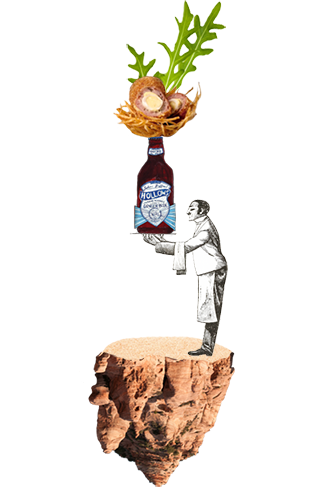
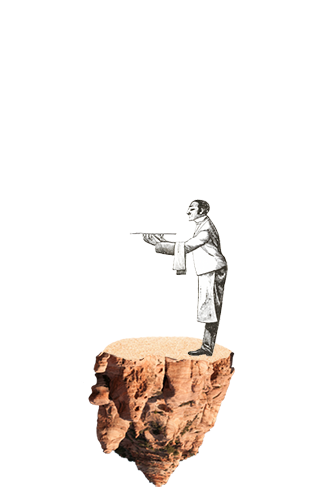
home page done

Changed region(s): [[0.3738, 0.0, 0.7188, 0.4928]]

diff --git a/app/index.html b/app/index.html
@@ -42,9 +42,20 @@
 
                         </div>
                         <div data-depth="0.40" class="mid layer">
-                            <div class="windmillGirl"><img src="images/nwtc/woman-windmills.png" width="527" height="456" /></div>
+                            <div class="windmillGirl">
+                                <img src="images/nwtc/woman_wind.png" class="wind" width="565" height="503" />
+                                <img src="images/nwtc/windmill_top.png" class="wt1" width="45" height="46">
+                                <img src="images/nwtc/windmill_top.png" class="wt2" width="45" height="46">
+                                <img src="images/nwtc/windmill_top.png" class="wt3" width="45" height="46">
+                                <img src="images/nwtc/windmill_top.png" class="wt4" width="45" height="46">
+                                <img src="images/nwtc/windmill_top.png" class="wt5" width="45" height="46">
+                                <img src="images/nwtc/woman-windmills.png" width="527" height="456" />
+                            </div>
                             <div class="island" >
-                                <div class="elephant"><img src="images/nwtc/elephant.png" width="316" height="199" /></div>
+                                <div class="elephant">
+                                    <img src="images/nwtc/elephantHead.png" class="eHead" width="316" height="199" />
+                                    <img src="images/nwtc/elephantBody.png" class="eBody" width="316" height="199" />
+                                </div>
                                 <div class="diverAnim">
                                     <div class="diverMask">
                                         <div class="diver">
@@ -58,8 +69,10 @@
                                     </div>
                                 </div>
                             </div>
-                            <div class="bottleMan"><img src="images/nwtc/waiter.png" width="313" height="487" />
-                        </div>
+                            <div class="bottleMan">
+                                <img src="images/nwtc/waiterBottle.png" class="wBottle" width="313" height="487" />
+                                <img src="images/nwtc/waiter.png" width="313" height="487" />
+                            </div>
                         <div data-depth="1.00" class="layer fore">
                             <div class="mushroom"><img src="images/nwtc/mushroom-island.png" width="168" height="173" /></div>
                             <div class="pinkCloud" ><img src="images/nwtc/cloudPnk.png" width="523" height="198" /></div>
@@ -68,7 +81,11 @@
                         </div>
 
                     </div>
-                    <div class="hitareas"><div class="bottleHit"></div> </div>
+                    <div class="hitareas">
+                        <div class="bottleHit"></div> 
+                        <div class="windHit"></div> 
+                        <div class="waiterHit"></div> 
+                    </div>
                     <div class="trumpet"><img src="images/nwtc/trumpet.png" width="358" height="125" /></div>
                 </div>
             </div>
@@ -98,11 +115,9 @@
             <script src="bower_components/tweenMax/src/minified/TweenMax.min.js"></script>
             <script src="bower_components/history.js/scripts/bundled-uncompressed/html4+html5/jquery.history.js"></script>
             <script src="scripts/imagesloaded.js"></script>
-            <script src="scripts/main.js"></script>
-<<<<<<< HEAD
+            <script src="scripts/index.js"></script>
             <script src="scripts/botanist.js"></script>
-=======
->>>>>>> b957752dc4d30f1dc7dab2a6eae0c7218c57f77f
+            <script src="scripts/main.js"></script>
             <!-- endbuild -->
         </body>
         </html>

diff --git a/app/scripts/index.js b/app/scripts/index.js
@@ -1,0 +1,57 @@
+var index = (function () {
+    'use strict';
+
+    function init () {
+        diver();
+        bottleFall();
+        ele();
+        windGirl();
+        waiterFall()
+    }
+
+    function diver(){
+        var dtl = new TimelineLite();
+        dtl.to($('.diver'), 0.2, {top:'0px' , ease: Power2.easeOut});
+        dtl.to($('.rainMask'), 0.7, {height: '300px' , ease:Quad.easeIn})
+    }
+
+    function ele(){
+        var etl = new TimelineMax({repeat:10, repeatDelay:5});
+        etl.add(TweenLite.to($('.eHead'), 3, {rotation:'20' ,ease:Quad.easeInOut}));
+        etl.add(TweenLite.to($('.eHead'), 3, {rotation:'0' ,ease:Quad.easeInOut}));
+    }
+
+    function bottleFall(){
+        $('.bottleHit').mouseover(function(){
+            var btl = new TimelineLite();
+            btl.to($('.bottleFall'), 0.1, {rotation:-180, transformOrigin: "middle left" , ease: Quad.easeOut});
+            btl.to($('.bottleFall'), 1.5, {top: '1000px' , ease:Quad.easeOut}, "-=1.2")
+        });
+    }
+
+    function windGirl(){
+        $('.windHit').mouseover(function(){
+            var wtl = new TimelineMax();
+            wtl.to($('.wind'), 1, { css: { opacity: 1, left: -10, top: -27 }, ease: Quad.easeInOut});
+            wtl.to($('.wt1'),4, {css: {rotation: '1800'}, ease: Quad.easeInOut}, "-=0.7")
+            wtl.to($('.wt2'),4, {css: {rotation: '1800'}, ease: Quad.easeInOut}, "-=3.5")
+            wtl.to($('.wt3'),4, {css: {rotation: '1800'}, ease: Quad.easeInOut}, "-=3.5")
+            wtl.to($('.wt4'),4, {css: {rotation: '1800'}, ease: Quad.easeInOut}, "-=3.5")
+            wtl.to($('.wt5'),4, {css: {rotation: '1800'}, ease: Quad.easeInOut}, "-=3.5")
+        });
+    }
+
+    function waiterFall(){
+        $('.waiterHit').mouseover(function(){
+            var wftl = new TimelineLite();
+            wftl.to($('.wBottle'), 2, {rotation:-360 , transformOrigin: "middle left", ease: Quad.easeInOut});
+            wftl.to($('.wBottle'), 1.5, {top:1000 , ease: Quad.easeInOut}, '-=1.2');
+            //TweenLite.to($('.wBottle'), 3, {top: 1000px, rotation: -90} , ease:Quad.easeOut}, "-=0.7")
+        });
+    }
+
+
+    return {
+        init: init
+    }
+}());

diff --git a/app/scripts/main.js b/app/scripts/main.js
@@ -35,11 +35,14 @@ var changePage = (function changePage() {
             $('.page').first().addClass('offPage');
             $('.page').last().removeClass('hidden');
             $('body').addClass(page);
+
             setTimeout( function() {
                 $('body').data('current', page).removeClass(currentPage);
                 $('.page').first().remove();
                 isLoading = false;
-               Anim(page);
+                console.log(page);
+                var tmp = window[page];
+                tmp.init();
                parallax = new Parallax(scene, paraOpt);
             }, 2100 );
         });
@@ -50,21 +53,6 @@ var changePage = (function changePage() {
     };
 }());
 
-// page anim
-
-var Anim = (function Anim(page){
-    if (page = 'index'){
-            var dtl = new TimelineLite();
-            dtl.to($('.diver'), 0.2, {top:'0px' , ease: Power2.easeOut});
-            dtl.to($('.rainMask'), 0.7, {height: '300px' , ease:Quad.easeIn})
-        $('.bottleHit').mouseover(function(){
-            var btl = new TimelineLite();
-            btl.to($('.bottleFall'), 0.2, {rotation:'-180' , ease: Quad.easeIn});
-            btl.to($('.bottleFall'), 0.7, {top: '1000px' , ease:Quad.easeIn})
-        })
-        
-    }
-});
 
 $('.nav_toggle').on('click', function () {
     $('nav').toggleClass('active');
@@ -127,7 +115,7 @@ $('nav a').on('click', function(event) {
 // Parallax on the content div //
 var scene = document.getElementById('content');
 parallax = new Parallax(scene,paraOpt);
-Anim();
+index.init();
 
 
 

diff --git a/app/styles/_nwtc.scss b/app/styles/_nwtc.scss
@@ -19,8 +19,15 @@
 	}
 	.elephant{
 		position: absolute;
-		top:300px;
+		top:310px;
 		left:800px;
+		width:300px;
+		.eHead{
+			position:absolute;
+			top:-54px;
+			left:-23px;
+
+		}
 	}
 	.diverAnim{
 			position: absolute;
@@ -61,13 +68,29 @@
 	}
 	.windmillGirl{
 		position: absolute;
-		top: 40px;
+		top: 110px;
+		.wind{
+			position: absolute;
+			top: -17px;
+			left:-37px;
+			opacity: 0;
+		}
+		.wt1, .wt2, .wt3, .wt4, .wt5{ position:absolute;}
+		.wt1 {top:27px; left:296px;}
+		.wt2{top:35px; left:334px;}
+		.wt3{top:10px; left:369px;}
+		.wt4{top:8px; left:409px;}
+		.wt5{top:30px; left:444px;}
 	}
 
 	.bottleMan{
 		position: absolute;
 		left: 1620px;
 		top: 170px;
+		.wBottle{
+			position: absolute;
+			
+		}
 	}
 
 	.pansy{
@@ -111,6 +134,21 @@
 		left:1010px;
 		height: 150px;
 		width: 100px;
+	}
+
+	.windHit{
+		position: absolute;
+		top:10px;
+		left:10px;
+		height: 500px;
+		width: 280px;
 		
+	}
+	.waiterHit{
+		position: absolute;
+		top:299px;
+		left:1700px;
+		height:100px;
+		width:80px;
 	}
 }

diff --git a/app/scripts/botanist.js b/app/scripts/botanist.js
@@ -3,7 +3,7 @@ var botanist = (function () {
 
     function init () {
         birds();
-        rain();
+        //rain();
     }
 
     function birds() {
@@ -31,7 +31,7 @@ var botanist = (function () {
     function rain() {
         // Raining Cloud
         var rainHits = $('.rain_hit'),
-            raindrops = $('.raindrops');
+            raindrops = $('.raindrops'),
             rainAnim = new TimelineMax({paused:true});
 
         rainAnim
